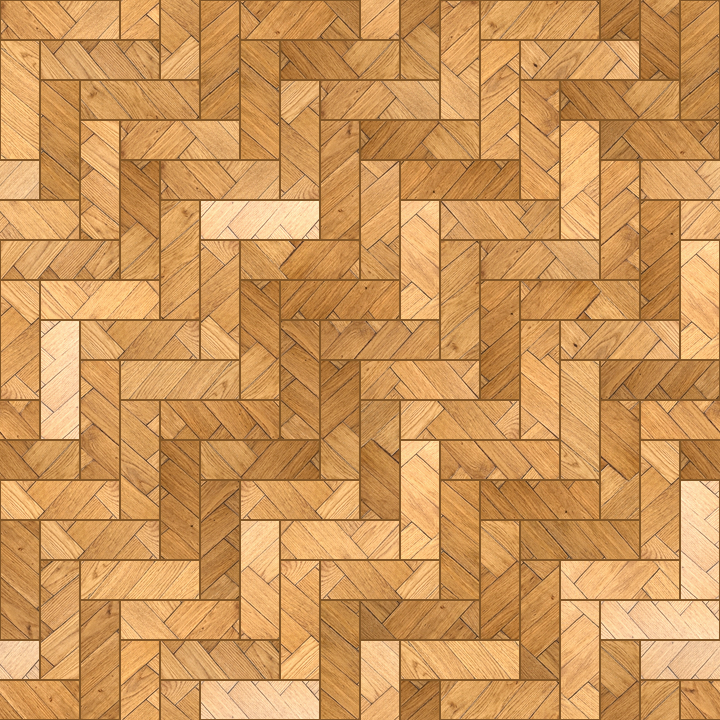
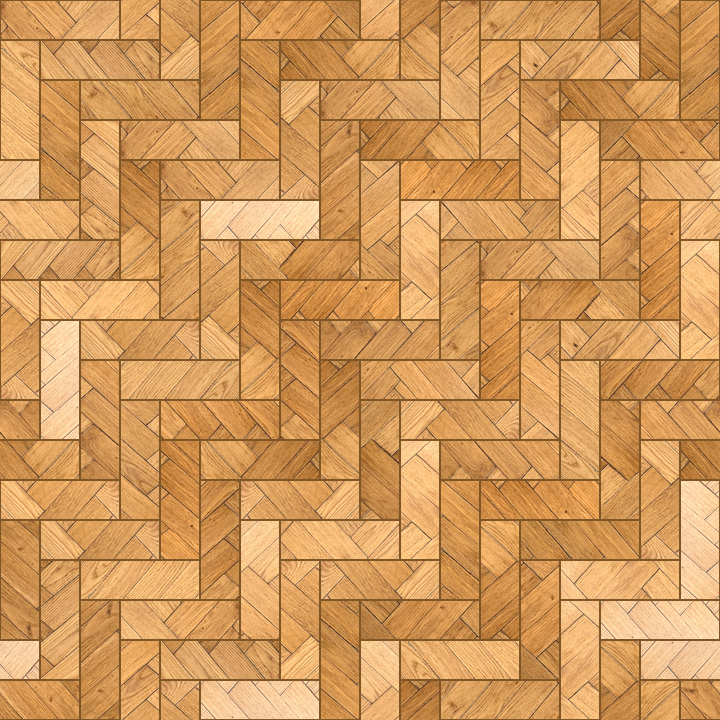
museum: the parquet within a stop
The floor's plank-to-plank contrast was carrying too much drama: the
tile is relaid with every plank's brightness lifted until the whole
spread sits within one photographic stop of the brightest, which
stays untouched. Seven of the twenty planks came up; the layout, the
grain and the sunny finish are unchanged.

diff --git a/static/css/museum.css b/static/css/museum.css
@@ -40,7 +40,7 @@ body.mu-open { overflow: hidden; }
    relaid on an exact lattice so the tile repeats without a seam. 10 × 30 cm
    planks, 180 cm to the repeat. */
 .mu-floor {
-  background: #ce965a url("../img/parquet.png") repeat;
+  background: #d2995b url("../img/parquet.png") repeat;
   background-size: 180px 180px;
 }
 /* A frosted-glass skylight: luminous panes in a mullion grid, set in a
